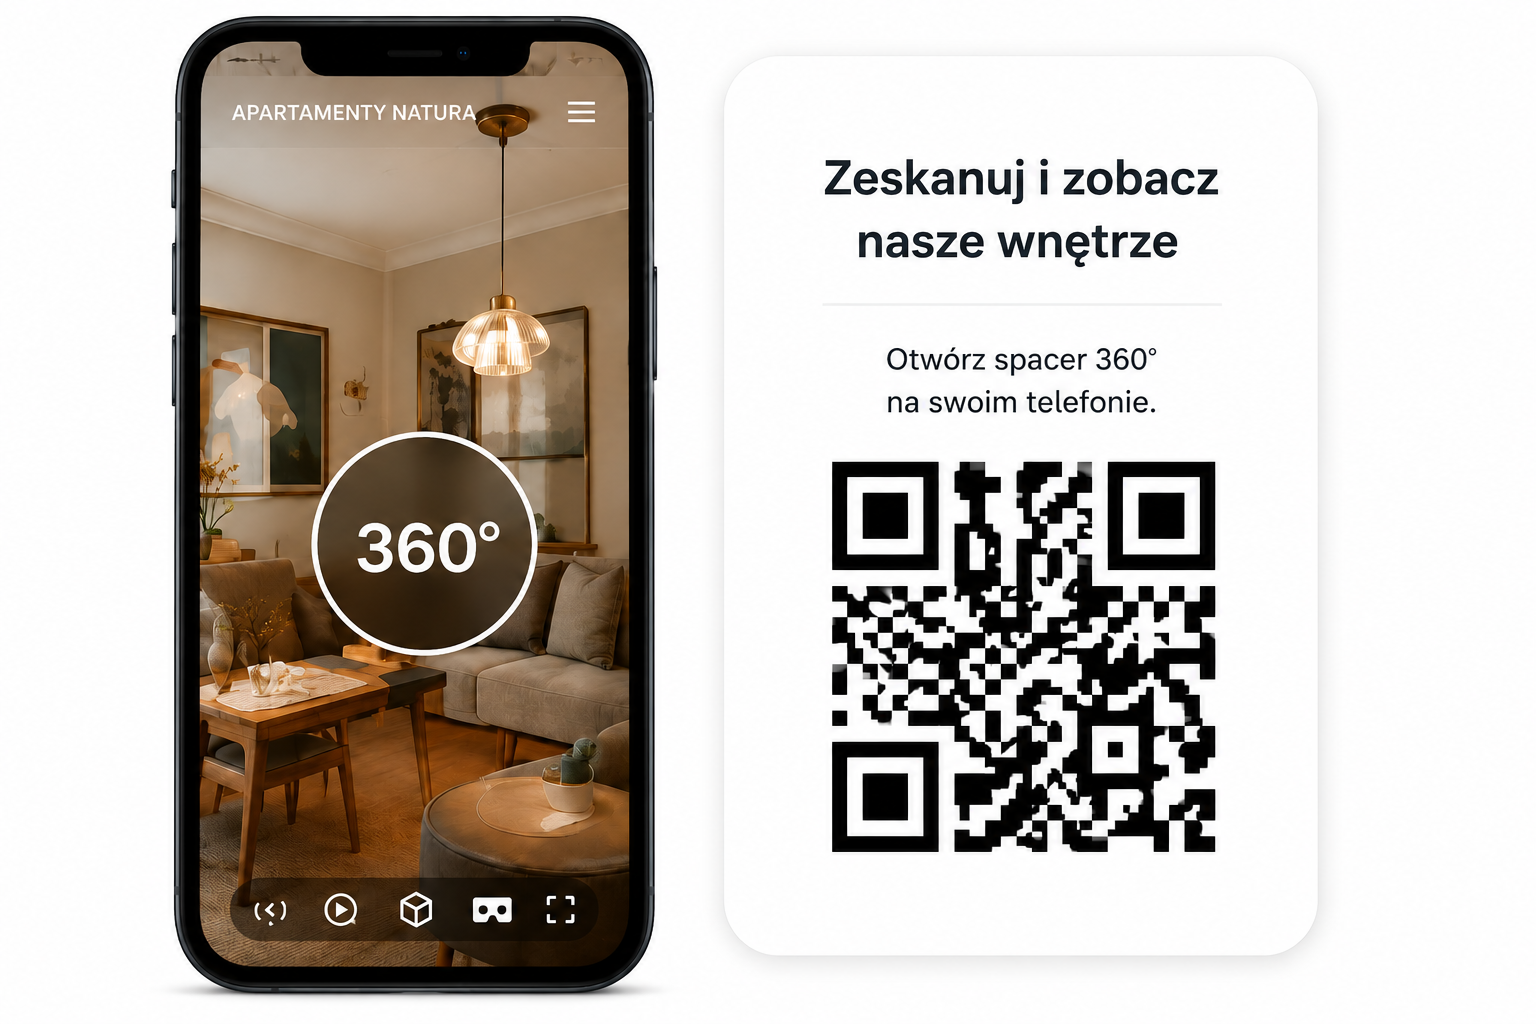
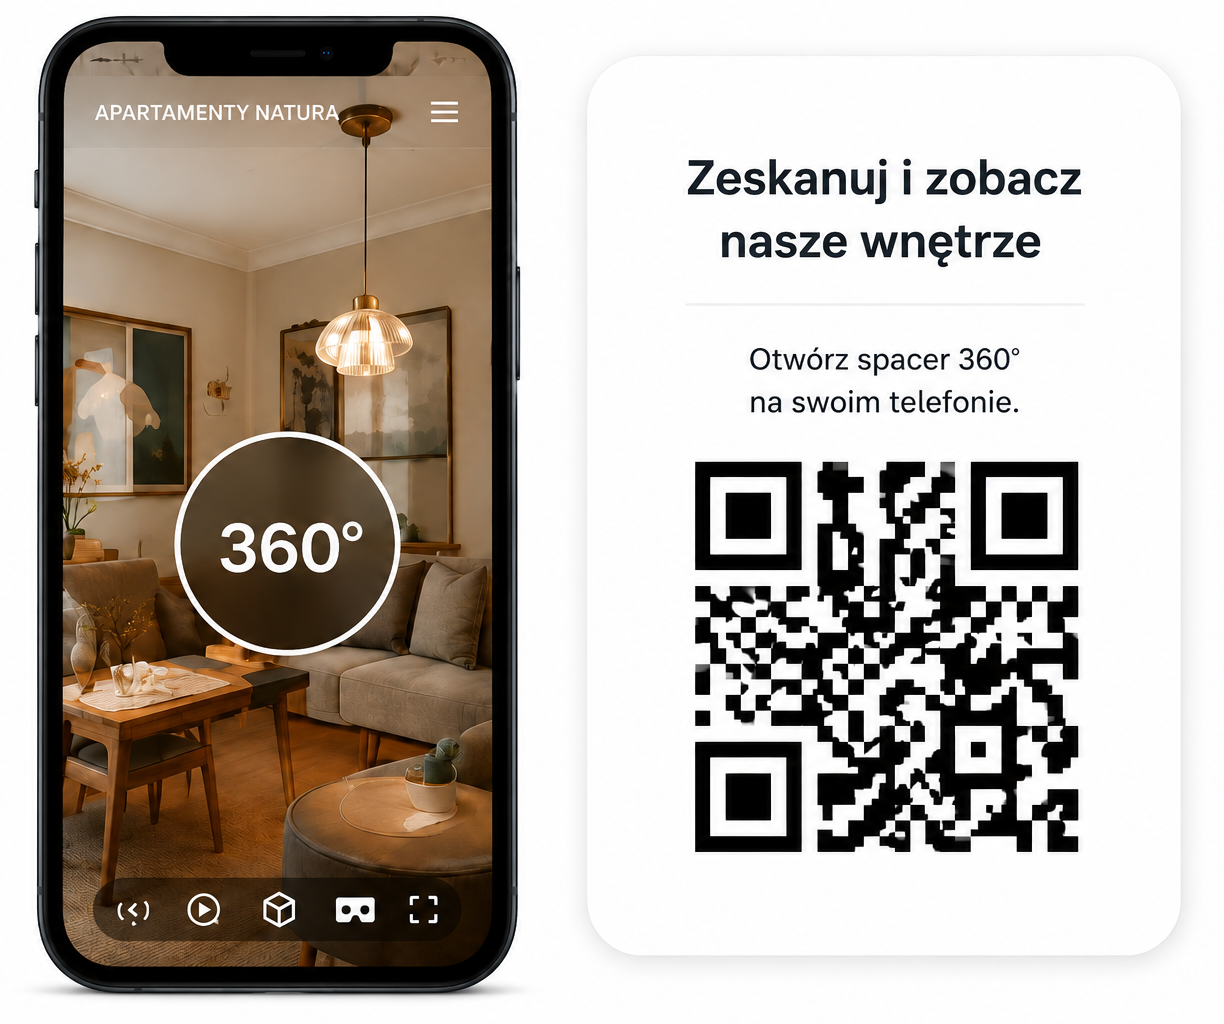
Powiększ obrazek w kafelku "Link i kod QR"
Przycięto zbędne białe marginesy wokół telefonu i kodu QR (z 1536x1024
do 1224x1024), dzięki czemu obraz wypełnia ramkę kafelka znacznie
lepiej przy zachowanym proporcjonalnym dopasowaniu (object-fit:contain).

diff --git a/index.html b/index.html
@@ -512,7 +512,7 @@
         </div>
         <p class="channel-desc">Wyślij spacer klientowi mailem, SMS-em lub Messengerem albo umieść QR w swoim lokalu.</p>
         <div class="channel-mock">
-          <img src="channel-qr.png?v=2" alt="Telefon ze spacerem 360° obok kodu QR do zeskanowania" loading="lazy">
+          <img src="channel-qr.png?v=3" alt="Telefon ze spacerem 360° obok kodu QR do zeskanowania" loading="lazy">
         </div>
         <a href="#kontakt" class="channel-link">Zeskanuj i zobacz
           <svg viewBox="0 0 24 24" fill="none" stroke="currentColor" stroke-width="2.4" stroke-linecap="round"><path d="M5 12h14M13 6l6 6-6 6"/></svg>
